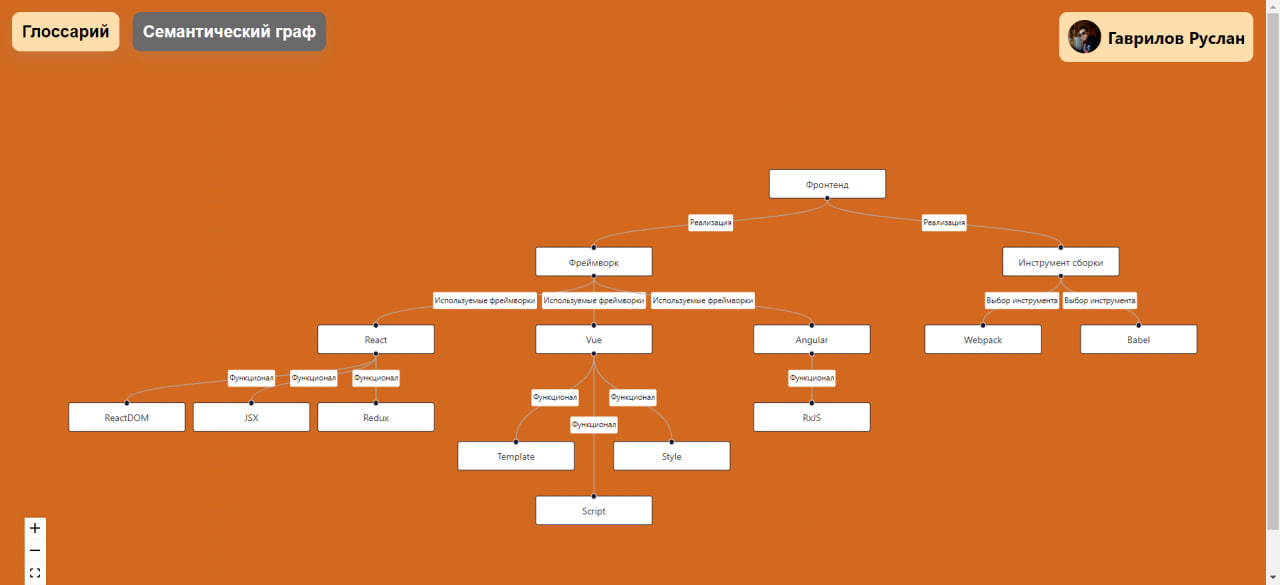
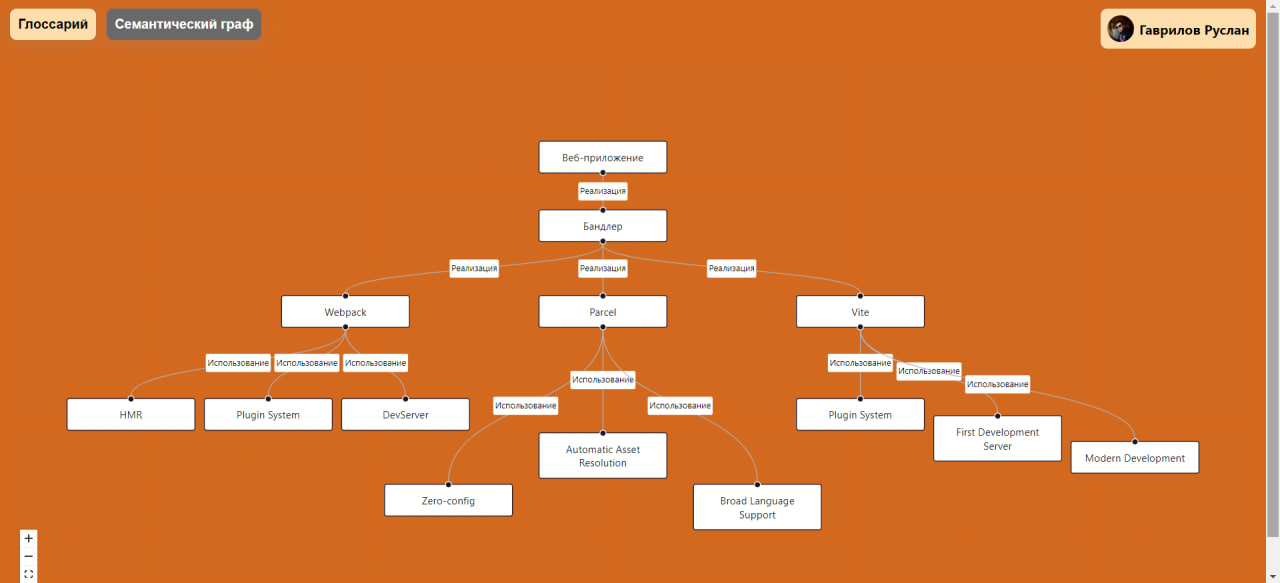
main-2

diff --git a/src/const/glossary.ts b/src/const/glossary.ts
@@ -1,78 +1,68 @@
 const glossary = [
     {
         "id": 1,
-        "word": "Фронтенд",
-        "description": "Фронтенд относится к части веб-разработки, которая занимается созданием пользовательского интерфейса и взаимодействием с пользователем. Это все, что пользователь видит и с чем взаимодействует в браузере."
+        "word": "Веб-приложение",
+        "description": "Веб-приложение представляет собой программное приложение, предназначенное для использования через веб-браузер. Оно может быть статическим, динамическим или одностраничным (SPA), обеспечивая пользовательский интерфейс и взаимодействие с сервером через сеть."
     },
     {
         "id": 2,
-        "word": "Фреймворк",
-        "description": "Фреймворк представляет собой структуру и набор инструментов, облегчающих разработку программного обеспечения. В веб-разработке фреймворк может предоставлять готовые решения и структуру для создания веб-приложений."
+        "word": "Бандлер",
+        "description": "Бандлер - это инструмент веб-разработки, который объединяет и оптимизирует различные файлы и зависимости приложения в один или несколько бандлов (компактных файлов). Это снижает объем данных, передаваемых по сети, и улучшает производительность веб-приложения."
     },
     {
         "id": 3,
-        "word": "Инструменты сборки",
-        "description": "Инструменты сборки помогают автоматизировать процесс сборки и развертывания веб-приложений, управлять зависимостями, компилировать код и т. д."
+        "word": "Webpack",
+        "description": "Webpack - мощный сборщик для JavaScript-приложений. Он обеспечивает обширные возможности конфигурации, поддерживает модульную систему, tree shaking и code splitting, а также предоставляет множество плагинов для расширения функциональности."
     },
     {
         "id": 4,
-        "word": "React",
-        "description": "React - это JavaScript-библиотека для создания пользовательских интерфейсов. Он позволяет создавать компоненты, которые обновляются эффективно при изменении данных, и использует виртуальный DOM для оптимизации производительности."
+        "word": "Parcel",
+        "description": "Parcel - сборщик с нулевой конфигурацией, предназначенный для простого и быстрого старта проектов. Он автоматически обрабатывает различные типы ресурсов, поддерживает code splitting и обладает хорошей производительностью."
     },
     {
         "id": 5,
-        "word": "Vue",
-        "description": "Vue.js - это прогрессивный JavaScript-фреймворк для создания пользовательских интерфейсов. Он обеспечивает простоту интеграции и гибкость, позволяя постепенно внедрять его в проект."
+        "word": "Vite",
+        "description": "Vite - современный сборщик, оптимизированный для быстрой разработки. Он использует нативную поддержку ES модулей, обеспечивает мгновенные обновления кода и интегрирован с экосистемой Vue.js."
     },
     {
         "id": 6,
-        "word": "Angular",
-        "description": "Angular - это фреймворк разработки веб-приложений, созданный и поддерживаемый командой Angular в Google. Он предоставляет широкий набор инструментов для создания сложных веб-приложений."
+        "word": "HMR",
+        "description": "HMR - механизм, позволяющий внести изменения в код приложения в процессе его выполнения, без полной перезагрузки страницы. Это ускоряет разработку, так как изменения видны мгновенно."
     },
     {
         "id": 7,
-        "word": "Webpack",
-        "description": "Webpack - это инструмент сборки, который позволяет объединять, управлять и оптимизировать ресурсы веб-приложения, такие как JavaScript, стили, изображения и другие."
+        "word": "Plugin System",
+        "description": "Система плагинов предоставляет возможность расширять функциональность сборщика путем подключения дополнительных модулей. Плагины могут предоставлять различные возможности, от оптимизации кода до автоматической обработки ресурсов."
     },
     {
         "id": 8,
-        "word": "Babel",
-        "description": "Babel - это транспайлер JavaScript, который позволяет использовать последние версии языка, преобразуя код в совместимый с более старыми браузерами или окружениями JavaScript."
+        "word": "DevServer",
+        "description": "DevServer - встроенный сервер разработки, предназначенный для локального тестирования приложения в процессе разработки. Он поддерживает HMR и обеспечивает удобное окружение для тестирования."
     },
     {
         "id": 9,
-        "word": "ReactDOM",
-        "description": " ReactDOM - это часть React, предназначенная для манипулирования виртуальным DOM и обновления реального DOM в браузере."
+        "word": " Zero-config",
+        "description": "Zero-config подход означает использование сборщика без необходимости в явной конфигурации. Это упрощает начало работы с проектом, особенно для новичков в разработке."
     },
     {
         "id": 10,
-        "word": "Redux",
-        "description": "Redux - это библиотека управления состоянием в приложениях на основе JavaScript, часто используемая с React. Она помогает организовать и управлять состоянием приложения в одном месте."
+        "word": "Automatic Asset Resolution",
+        "description": "Автоматическое разрешение ресурсов означает, что сборщик самостоятельно определяет и обрабатывает различные типы ресурсов, такие как изображения, стили и шрифты, без необходимости дополнительной конфигурации."
     },
     {
         "id": 11,
-        "word": "JSX",
-        "description": "JSX - это синтаксис расширения JavaScript, используемый в React для описания структуры пользовательского интерфейса в виде элементов, напоминающих HTML."
+        "word": "Broad Language Support",
+        "description": "Поддержка различных языков программирования, таких как JavaScript, TypeScript, CSS, HTML, что делает сборщик универсальным инструментом для разнообразных проектов."
     },
     {
         "id": 12,
-        "word": "Template",
-        "description": "Шаблон - это структура, определяющая внешний вид и организацию содержимого веб-страницы или компонента."
+        "word": "First Development Server",
+        "description": "Первый сервер разработки - это встроенный сервер, предоставляющий окружение для быстрого запуска и тестирования веб-приложения в режиме разработки."
     },
     {
         "id": 13,
-        "word": "Script",
-        "description": "Сценарий (Script) - в контексте веб-разработки это обычно относится к JavaScript-коду, выполняемому на стороне клиента."
-    },
-    {
-        "id": 14,
-        "word": "Style",
-        "description": "Стиль - это часть веб-разработки, относящаяся к оформлению внешнего вида веб-страницы с использованием CSS или других языков стилей."
-    },
-    {
-        "id": 15,
-        "word": "RxJS",
-        "description": "RxJS - это библиотека для реактивного программирования в JavaScript. Она предоставляет набор инструментов для работы с асинхронными потоками данных и событиями."
+        "word": "Modern Development",
+        "description": "Сборщики, ориентированные на современную разработку, используют новые подходы, такие как нативная поддержка ES модулей, ускоренные времена сборки и оптимизированный процесс разработки."
     },
 ]
 

diff --git a/src/const/mindMap.ts b/src/const/mindMap.ts
@@ -3,89 +3,88 @@ const mindMap = {
       {
         "id": "1",
         "position": {"x": 0, "y": 0},
-        "data": {"label": "Фронтенд"},
+        "data": {"label": "Веб-приложение"},
         "type": "input"
       },
       {
         "id": "2",
-        "position": {"x": -300, "y": 100},
-        "data": {"label": "Фреймворк"}
+        "position": {"x": 0, "y": 80},
+        "data": {"label": "Бандлер"},
+        "type": ""
       },
       {
         "id": "3",
-        "position": {"x": 300, "y": 100},
-        "data": {"label": "Инструмент сборки"},
+        "position": {"x": -300, "y": 180},
+        "data": {"label": "Webpack"},
+        "type": ""
       },
       {
         "id": "4",
-        "position": {"x": 200, "y": 200},
-        "data": {"label": "Webpack"},
-        "type": "output"
+        "position": {"x": 0, "y": 180},
+        "data": {"label": "Parcel"},
+        "type": ""
       },
       {
         "id": "5",
-        "position": {"x": 400, "y": 200},
-        "data": {"label": "Babel"},
-        "type": "output"
+        "position": {"x": 300, "y": 180},
+        "data": {"label": "Vite"},
+        "type": ""
       },
       {
         "id": "6",
-        "position": {"x": -580, "y": 200},
-        "data": {"label": "React"},
+        "position": {"x": -550, "y": 300},
+        "data": {"label": "HMR"},
+        "type": "output"
       },
       {
         "id": "7",
-        "position": {"x": -300, "y": 200},
-        "data": {"label": "Vue"},
+        "position": {"x": -390, "y": 300},
+        "data": {"label": "Plugin System"},
+        "type": "output"
       },
       {
         "id": "8",
-        "position": {"x": -20, "y": 200},
-        "data": {"label": "Angular"},
+        "position": {"x": -230, "y": 300},
+        "data": {"label": "DevServer"},
+        "type": "output"
       },
       {
         "id": "9",
-        "position": {"x": -900, "y": 300},
-        "data": {"label": "ReactDOM"},
+        "position": {"x": -180, "y": 400},
+        "data": {"label": "Zero-config"},
         "type": "output"
       },
       {
         "id": "10",
-        "position": {"x": -740, "y": 300},
-        "data": {"label": "JSX"},
+        "position": {"x": 0, "y": 340},
+        "data": {"label": "Automatic Asset Resolution"},
         "type": "output"
       },
       {
         "id": "11",
-        "position": {"x": -580, "y": 300},
-        "data": {"label": "Redux"},
+        "position": {"x": 180, "y": 400},
+        "data": {"label": "Broad Language Support"},
         "type": "output"
       },
       {
         "id": "12",
-        "position": {"x": -400, "y": 350},
-        "data": {"label": "Template"},
+        "position": {"x": 460, "y": 320},
+        "data": {"label": "First Development Server"},
         "type": "output"
       },
       {
         "id": "13",
-        "position": {"x": -300, "y": 420},
-        "data": {"label": "Script"},
+        "position": {"x": 300, "y": 300},
+        "data": {"label": "Plugin System"},
         "type": "output"
       },
       {
         "id": "14",
-        "position": {"x": -200, "y": 350},
-        "data": {"label": "Style"},
+        "position": {"x": 620, "y": 350},
+        "data": {"label": "Modern Development"},
         "type": "output"
       },
-      {
-        "id": "15",
-        "position": {"x": -20, "y": 300},
-        "data": {"label": "RxJS"},
-        "type": "output"
-      },
-  
+      
     ],
     "edges": [
       {
@@ -95,82 +94,76 @@ const mindMap = {
         "label": "Реализация"
       },
       {
-        "id": "1-3",
-        "source": "1",
+        "id": "2-3",
+        "source": "2",
         "target": "3",
         "label": "Реализация"
       },
       {
-        "id": "3-4",
-        "source": "3",
+        "id": "2-4",
+        "source": "2",
         "target": "4",
-        "label": "Выбор инструмента"
+        "label": "Реализация"
       },
       {
-        "id": "3-5",
-        "source": "3",
+        "id": "2-5",
+        "source": "2",
         "target": "5",
-        "label": "Выбор инструмента"
+        "label": "Реализация"
       },
       {
-        "id": "2-6",
-        "source": "2",
+        "id": "3-6",
+        "source": "3",
         "target": "6",
-        "label": "Используемые фреймворки"
+        "label": "Использование"
       },
       {
-        "id": "2-7",
-        "source": "2",
+        "id": "3-7",
+        "source": "3",
         "target": "7",
-        "label": "Используемые фреймворки"
+        "label": "Использование"
       },
       {
-        "id": "2-8",
-        "source": "2",
+        "id": "3-8",
+        "source": "3",
         "target": "8",
-        "label": "Используемые фреймворки"
+        "label": "Использование"
       },
       {
-        "id": "6-9",
-        "source": "6",
+        "id": "4-9",
+        "source": "4",
         "target": "9",
-        "label": "Функционал"
+        "label": "Использование"
       },
       {
-        "id": "6-10",
-        "source": "6",
+        "id": "4-10",
+        "source": "4",
         "target": "10",
-        "label": "Функционал"
+        "label": "Использование"
       },
       {
-        "id": "6-11",
-        "source": "6",
+        "id": "4-11",
+        "source": "4",
         "target": "11",
-        "label": "Функционал"
+        "label": "Использование"
       },
       {
-        "id": "7-12",
-        "source": "7",
+        "id": "5-12",
+        "source": "5",
         "target": "12",
-        "label": "Функционал"
+        "label": "Использование"
       },
       {
-        "id": "7-13",
-        "source": "7",
+        "id": "5-13",
+        "source": "5",
         "target": "13",
-        "label": "Функционал"
+        "label": "Использование"
       },
       {
-        "id": "7-14",
-        "source": "7",
+        "id": "5-14",
+        "source": "5",
         "target": "14",
-        "label": "Функционал"
-      },
-      {
-        "id": "8-15",
-        "source": "8",
-        "target": "15",
-        "label": "Функционал"
+        "label": "Использование"
       },
       
     ]
